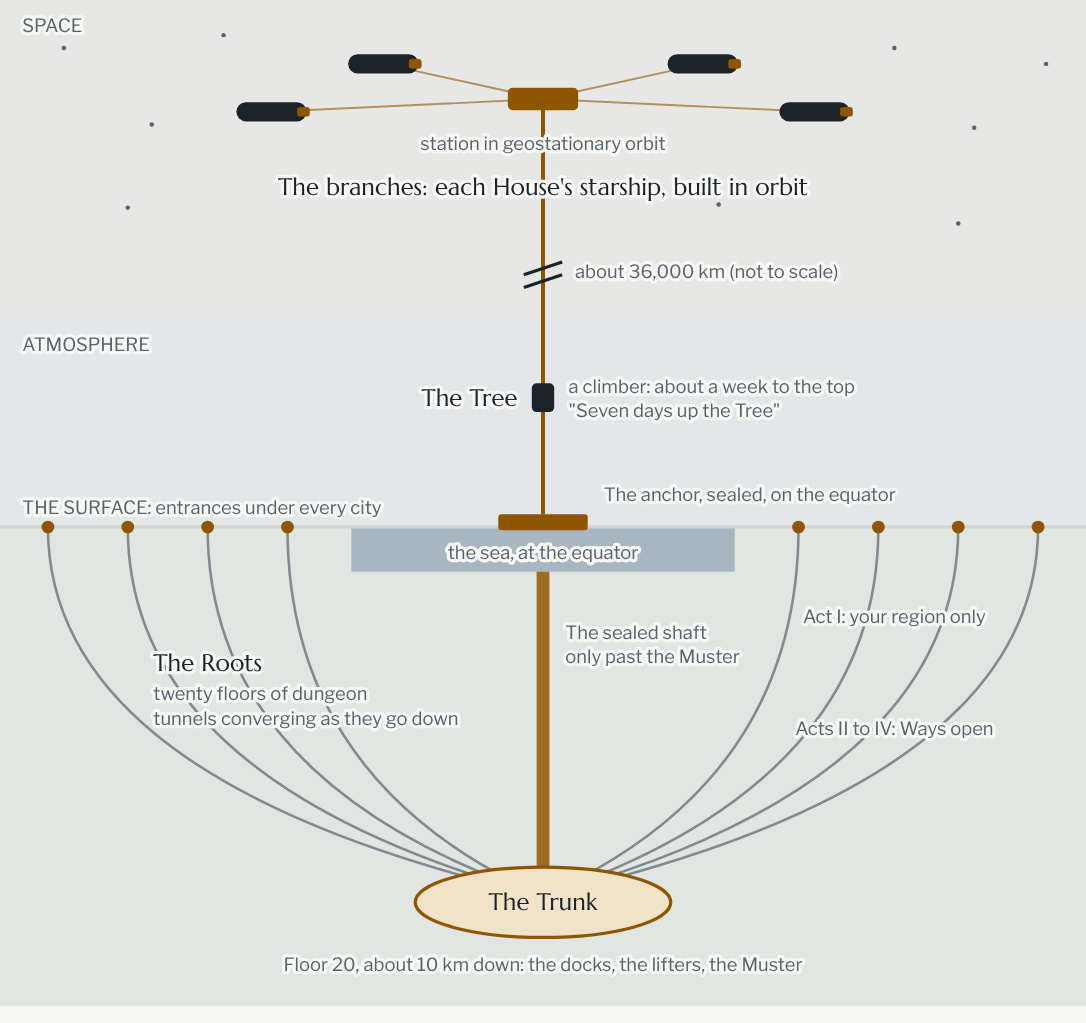
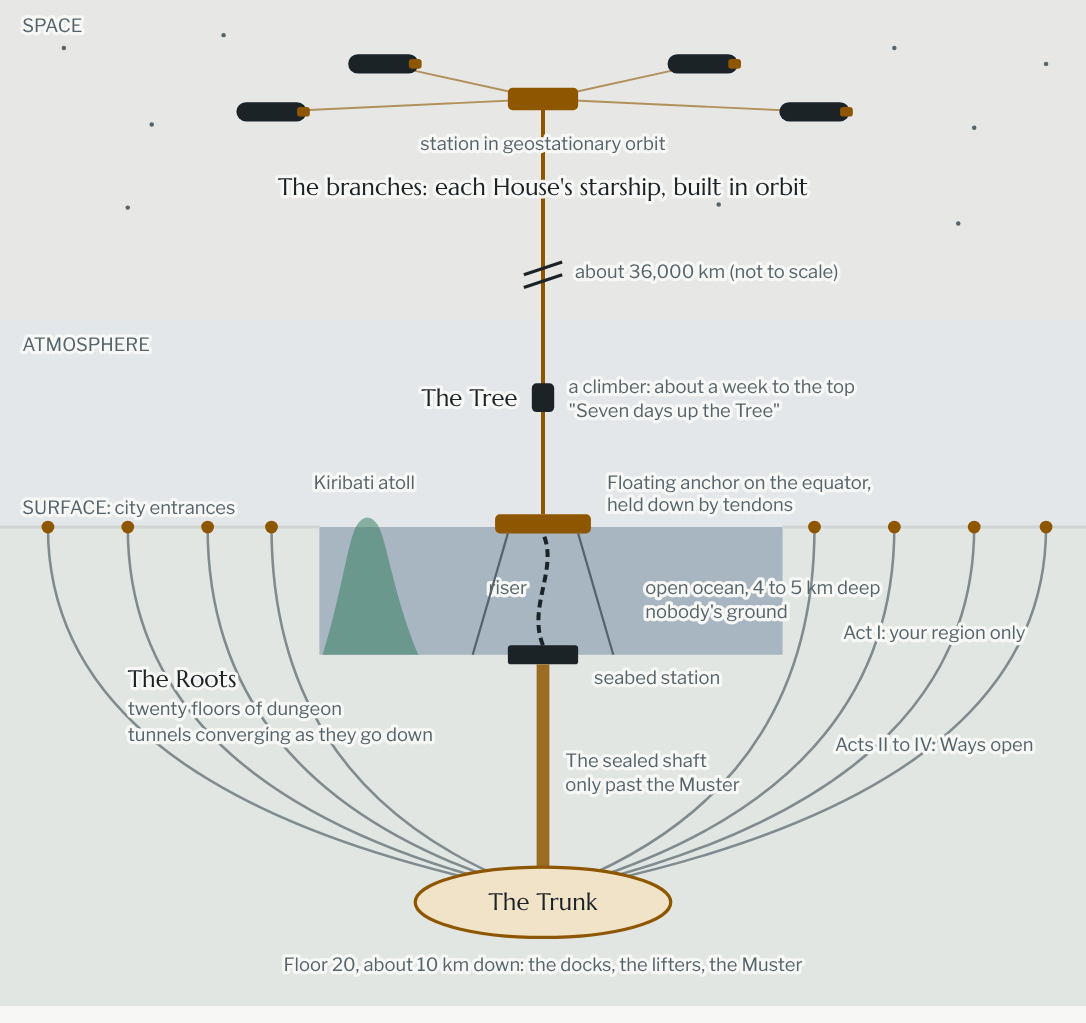
The Tree: a floating anchor beside Kiribati, with seabed station and riser
Records the decision and why it holds up: the standard design in space
elevator studies, Sea Launch's equatorial platform near Kiritimati,
tension-leg moorings and deepwater risers. The sealed shaft now ends at
a seabed station, and the diagram shows the riser, tendons and atoll.

Claude-Session: https://claude.ai/code/session_01KSvaVTYjNDVBFa9dnZuKoY

diff --git a/docs/atlas.html b/docs/atlas.html
@@ -361,35 +361,46 @@ footer { margin-top: 48px; padding-top: 16px; border-top: 1px solid var(--line);
       <div class="section-head">
         <span class="eyebrow">How the ships reach the stars</span>
         <h2>The Trunk and the Tree</h2>
-        <p class="muted">The dungeon is the roots of a world tree, and the rest of the tree is the way up. The craft at the bottom are lifters and boarding halls, not starships. From the Trunk, a sealed shaft rises to an anchor on the equator, and a space elevator (the Tree) climbs from there to orbit, where the starships are built.</p>
+        <p class="muted">The dungeon is the roots of a world tree, and the rest of the tree is the way up. The craft at the bottom are lifters and boarding halls, not starships. From the Trunk, a sealed shaft rises beneath an atoll to a seabed station; a riser climbs to a floating anchor on the equator beside Kiribati; and a space elevator (the Tree) climbs from there to orbit, where the starships are built.</p>
       </div>
       <div class="chart-wrap">
         <div class="chart-scroll">
-          <svg class="roots" viewBox="0 0 680 640" role="img" aria-label="Cross-section, not to scale: tunnels from cities converge underground on the Trunk at floor 20; a sealed shaft rises to an anchor on the equator; a space elevator cable climbs to a station in geostationary orbit where the starships wait">
+          <svg class="roots" viewBox="0 0 680 640" role="img" aria-label="Cross-section, not to scale: tunnels from cities converge underground on the Trunk at floor 20; a sealed shaft rises beneath an atoll to a seabed station; a riser climbs through the open ocean to a floating anchor held down by tendons beside Kiribati; a space elevator cable climbs from the anchor to a station in geostationary orbit where the starships wait">
             <rect x="0" y="0" width="680" height="200" fill="var(--ink)" opacity="0.07"/>
             <rect x="0" y="200" width="680" height="130" fill="var(--corp)" opacity="0.10"/>
             <rect x="0" y="330" width="680" height="300" fill="var(--chip)"/>
-            <rect x="220" y="330" width="240" height="28" fill="var(--corp)" opacity="0.35"/>
-            <line x1="0" y1="330" x2="680" y2="330" stroke="var(--line)" stroke-width="2"/>
+            <rect x="200" y="330" width="290" height="80" fill="var(--corp)" opacity="0.35"/>
+            <line x1="0" y1="330" x2="200" y2="330" stroke="var(--line)" stroke-width="2"/>
+            <line x1="490" y1="330" x2="680" y2="330" stroke="var(--line)" stroke-width="2"/>
+            <path d="M202 410 C 214 372, 218 336, 224 328 Q 230 320 236 328 C 242 336, 246 372, 262 410 Z" fill="var(--comm)" opacity="0.5"/>
             <circle cx="40" cy="30" r="1.4" fill="var(--muted)"/><circle cx="95" cy="78" r="1.4" fill="var(--muted)"/><circle cx="140" cy="22" r="1.4" fill="var(--muted)"/><circle cx="560" cy="30" r="1.4" fill="var(--muted)"/><circle cx="610" cy="80" r="1.4" fill="var(--muted)"/><circle cx="655" cy="40" r="1.4" fill="var(--muted)"/><circle cx="80" cy="130" r="1.4" fill="var(--muted)"/><circle cx="600" cy="140" r="1.4" fill="var(--muted)"/><circle cx="250" cy="120" r="1.4" fill="var(--muted)"/><circle cx="450" cy="128" r="1.4" fill="var(--muted)"/>
             <text class="band-note" x="14" y="20" style="paint-order: stroke; stroke: var(--surface); stroke-width: 4px; stroke-linejoin: round">SPACE</text>
             <text class="band-note" x="14" y="220" style="paint-order: stroke; stroke: var(--surface); stroke-width: 4px; stroke-linejoin: round">ATMOSPHERE</text>
-            <text class="band-note" x="14" y="322" style="paint-order: stroke; stroke: var(--surface); stroke-width: 4px; stroke-linejoin: round">THE SURFACE: entrances under every city</text>
-            <text class="band-note" x="340" y="350" text-anchor="middle" style="paint-order: stroke; stroke: var(--surface); stroke-width: 4px; stroke-linejoin: round">the sea, at the equator</text>
-            <path d="M30 330 Q 30 480 303 552" fill="none" stroke="var(--muted)" stroke-width="1.6" opacity="0.7"/><circle cx="30" cy="330" r="4" fill="var(--accent)"/><path d="M80 330 Q 80 480 309 552" fill="none" stroke="var(--muted)" stroke-width="1.6" opacity="0.7"/><circle cx="80" cy="330" r="4" fill="var(--accent)"/><path d="M130 330 Q 130 480 315 552" fill="none" stroke="var(--muted)" stroke-width="1.6" opacity="0.7"/><circle cx="130" cy="330" r="4" fill="var(--accent)"/><path d="M180 330 Q 180 480 321 552" fill="none" stroke="var(--muted)" stroke-width="1.6" opacity="0.7"/><circle cx="180" cy="330" r="4" fill="var(--accent)"/><path d="M500 330 Q 500 480 359 552" fill="none" stroke="var(--muted)" stroke-width="1.6" opacity="0.7"/><circle cx="500" cy="330" r="4" fill="var(--accent)"/><path d="M550 330 Q 550 480 365 552" fill="none" stroke="var(--muted)" stroke-width="1.6" opacity="0.7"/><circle cx="550" cy="330" r="4" fill="var(--accent)"/><path d="M600 330 Q 600 480 371 552" fill="none" stroke="var(--muted)" stroke-width="1.6" opacity="0.7"/><circle cx="600" cy="330" r="4" fill="var(--accent)"/><path d="M650 330 Q 650 480 377 552" fill="none" stroke="var(--muted)" stroke-width="1.6" opacity="0.7"/><circle cx="650" cy="330" r="4" fill="var(--accent)"/>
-            <text class="band-label" x="96" y="420" style="paint-order: stroke; stroke: var(--surface); stroke-width: 4px; stroke-linejoin: round">The Roots</text>
-            <text class="band-note" x="96" y="438" style="paint-order: stroke; stroke: var(--surface); stroke-width: 4px; stroke-linejoin: round">twenty floors of dungeon</text>
-            <text class="band-note" x="96" y="454" style="paint-order: stroke; stroke: var(--surface); stroke-width: 4px; stroke-linejoin: round">tunnels converging as they go down</text>
-            <text class="band-note" x="560" y="390" text-anchor="middle" style="paint-order: stroke; stroke: var(--surface); stroke-width: 4px; stroke-linejoin: round">Act I: your region only</text>
-            <text class="band-note" x="560" y="460" text-anchor="middle" style="paint-order: stroke; stroke: var(--surface); stroke-width: 4px; stroke-linejoin: round">Acts II to IV: Ways open</text>
-            <rect x="336" y="358" width="8" height="190" fill="var(--accent)" opacity="0.85"/>
-            <text class="band-note" x="354" y="400" style="paint-order: stroke; stroke: var(--surface); stroke-width: 4px; stroke-linejoin: round">The sealed shaft</text>
-            <text class="band-note" x="354" y="415" style="paint-order: stroke; stroke: var(--surface); stroke-width: 4px; stroke-linejoin: round">only past the Muster</text>
+            <text class="band-note" x="14" y="322" style="paint-order: stroke; stroke: var(--surface); stroke-width: 4px; stroke-linejoin: round">SURFACE: city entrances</text>
+            <text class="band-note" x="228" y="306" text-anchor="middle" style="paint-order: stroke; stroke: var(--surface); stroke-width: 4px; stroke-linejoin: round">Kiribati atoll</text>
+            <text class="band-note" x="404" y="372" style="paint-order: stroke; stroke: var(--surface); stroke-width: 4px; stroke-linejoin: round">open ocean, 4 to 5 km deep</text>
+            <text class="band-note" x="404" y="387" style="paint-order: stroke; stroke: var(--surface); stroke-width: 4px; stroke-linejoin: round">nobody's ground</text>
+            <path d="M30 330 Q 30 490 303 552" fill="none" stroke="var(--muted)" stroke-width="1.6" opacity="0.7"/><circle cx="30" cy="330" r="4" fill="var(--accent)"/><path d="M80 330 Q 80 490 309 552" fill="none" stroke="var(--muted)" stroke-width="1.6" opacity="0.7"/><circle cx="80" cy="330" r="4" fill="var(--accent)"/><path d="M130 330 Q 130 490 315 552" fill="none" stroke="var(--muted)" stroke-width="1.6" opacity="0.7"/><circle cx="130" cy="330" r="4" fill="var(--accent)"/><path d="M170 330 Q 170 490 320 552" fill="none" stroke="var(--muted)" stroke-width="1.6" opacity="0.7"/><circle cx="170" cy="330" r="4" fill="var(--accent)"/><path d="M510 330 Q 510 490 360 552" fill="none" stroke="var(--muted)" stroke-width="1.6" opacity="0.7"/><circle cx="510" cy="330" r="4" fill="var(--accent)"/><path d="M560 330 Q 560 490 366 552" fill="none" stroke="var(--muted)" stroke-width="1.6" opacity="0.7"/><circle cx="560" cy="330" r="4" fill="var(--accent)"/><path d="M610 330 Q 610 490 372 552" fill="none" stroke="var(--muted)" stroke-width="1.6" opacity="0.7"/><circle cx="610" cy="330" r="4" fill="var(--accent)"/><path d="M655 330 Q 655 490 378 552" fill="none" stroke="var(--muted)" stroke-width="1.6" opacity="0.7"/><circle cx="655" cy="330" r="4" fill="var(--accent)"/>
+            <text class="band-label" x="80" y="430" style="paint-order: stroke; stroke: var(--surface); stroke-width: 4px; stroke-linejoin: round">The Roots</text>
+            <text class="band-note" x="80" y="448" style="paint-order: stroke; stroke: var(--surface); stroke-width: 4px; stroke-linejoin: round">twenty floors of dungeon</text>
+            <text class="band-note" x="80" y="464" style="paint-order: stroke; stroke: var(--surface); stroke-width: 4px; stroke-linejoin: round">tunnels converging as they go down</text>
+            <text class="band-note" x="585" y="400" text-anchor="middle" style="paint-order: stroke; stroke: var(--surface); stroke-width: 4px; stroke-linejoin: round">Act I: your region only</text>
+            <text class="band-note" x="585" y="470" text-anchor="middle" style="paint-order: stroke; stroke: var(--surface); stroke-width: 4px; stroke-linejoin: round">Acts II to IV: Ways open</text>
+            <path d="M340 404 C 330 380, 350 356, 340 334" fill="none" stroke="var(--ink)" stroke-width="2.5" stroke-dasharray="5 3"/>
+            <text class="band-note" x="330" y="372" text-anchor="end" style="paint-order: stroke; stroke: var(--surface); stroke-width: 4px; stroke-linejoin: round">riser</text>
+            <line x1="318" y1="334" x2="296" y2="410" stroke="var(--muted)" stroke-width="1.4"/>
+            <line x1="362" y1="334" x2="384" y2="410" stroke="var(--muted)" stroke-width="1.4"/>
+            <rect x="318" y="404" width="44" height="12" rx="2" fill="var(--ink)"/>
+            <text class="band-note" x="372" y="428" style="paint-order: stroke; stroke: var(--surface); stroke-width: 4px; stroke-linejoin: round">seabed station</text>
+            <rect x="336" y="416" width="8" height="132" fill="var(--accent)" opacity="0.85"/>
+            <text class="band-note" x="354" y="480" style="paint-order: stroke; stroke: var(--surface); stroke-width: 4px; stroke-linejoin: round">The sealed shaft</text>
+            <text class="band-note" x="354" y="495" style="paint-order: stroke; stroke: var(--surface); stroke-width: 4px; stroke-linejoin: round">only past the Muster</text>
             <ellipse cx="340" cy="565" rx="80" ry="22" fill="var(--accent-soft)" stroke="var(--accent)" stroke-width="2"/>
             <text class="band-label" x="340" y="570" text-anchor="middle">The Trunk</text>
             <text class="band-note" x="340" y="608" text-anchor="middle" style="paint-order: stroke; stroke: var(--surface); stroke-width: 4px; stroke-linejoin: round">Floor 20, about 10 km down: the docks, the lifters, the Muster</text>
-            <rect x="312" y="322" width="56" height="10" rx="2" fill="var(--accent)"/>
-            <text class="band-note" x="378" y="314" style="paint-order: stroke; stroke: var(--surface); stroke-width: 4px; stroke-linejoin: round">The anchor, sealed, on the equator</text>
+            <rect x="310" y="322" width="60" height="12" rx="3" fill="var(--accent)"/>
+            <text class="band-note" x="380" y="306" style="paint-order: stroke; stroke: var(--surface); stroke-width: 4px; stroke-linejoin: round">Floating anchor on the equator,</text>
+            <text class="band-note" x="380" y="320" style="paint-order: stroke; stroke: var(--surface); stroke-width: 4px; stroke-linejoin: round">held down by tendons</text>
             <line x1="340" y1="322" x2="340" y2="62" stroke="var(--accent)" stroke-width="2.5"/>
             <line x1="328" y1="172" x2="352" y2="164" stroke="var(--ink)" stroke-width="2"/>
             <line x1="328" y1="180" x2="352" y2="172" stroke="var(--ink)" stroke-width="2"/>
@@ -422,12 +433,16 @@ footer { margin-top: 48px; padding-top: 16px; border-top: 1px solid var(--line);
       </div>
       <div class="table-wrap">
         <table>
-          <thead><tr><th>Where the anchor could be</th><th>Why</th><th>House</th></tr></thead>
+          <thead><tr><th>The floating anchor</th><th>Why it holds up</th></tr></thead>
           <tbody>
-            <tr><td class="name">Kiribati <span class="tag">draft pick</span></td><td>On the equator, and losing its islands to the rising sea. The way to the stars would begin where the Drowned Coasts hurt most</td><td>The Southern Cross</td></tr>
-            <tr><td class="name">Ecuador</td><td>Its name means "equator"; the Andes give a high, stable base</td><td>The Canopy</td></tr>
-            <tr><td class="name">Kenya</td><td>Equatorial highlands, close to the southern regreening</td><td>The Baobab</td></tr>
-            <tr><td class="name">Indonesia</td><td>The equator crosses Sumatra, Borneo and Sulawesi</td><td>Could settle Southeast Asia's House</td></tr>
+            <tr><td class="name">It's the standard design</td><td>Serious space elevator studies, including NASA-funded work by Bradley Edwards in the early 2000s, put the anchor on a mobile platform in the equatorial Pacific</td></tr>
+            <tr><td class="name">It's nearly been done</td><td>Sea Launch flew rockets from 1999 to 2014 off a converted oil platform on the equator at 154° W, near Kiritimati in Kiribati</td></tr>
+            <tr><td class="name">Held down by tendons</td><td>The cable and the platform's buoyancy both pull upwards. Tension-leg oil platforms are held down by tendons to the seabed in exactly this way</td></tr>
+            <tr><td class="name">The riser</td><td>Deepwater oil fields already use risers in water nearly 3 km deep. Here it's 4 to 5 km: a step beyond, not a leap</td></tr>
+            <tr><td class="name">Calm and movable</td><td>Tropical cyclones almost never form within about 5° of the equator. Moving the platform slowly swings the cable aside to dodge debris</td></tr>
+            <tr><td class="name">Nobody's ground</td><td>Open ocean belongs to no House: the most important place on Earth is neutral, under the Shared Law</td></tr>
+            <tr><td class="name">Why beside Kiribati</td><td>Low atolls the Heat is drowning; the only country in all four hemispheres; the first inhabited place to see each new day. Write it with advice from I-Kiribati people</td></tr>
+            <tr><td class="name">The one real leap</td><td>A cable material many times stronger for its weight than anything made in bulk today. The Houses have it, and guard it</td></tr>
           </tbody>
         </table>
       </div>

diff --git a/docs/world-bible.md b/docs/world-bible.md
@@ -293,7 +293,7 @@ Real underground places also give each House a home in the deep, which can show 
 | Part of the Tree | What it is | In the world |
 |---|---|---|
 | **The Roots** | The dungeon (6.0 to 6.2) | Where people are tested, sorted and changed |
-| **The Trunk** | Floor 20, the docks, and a sealed shaft rising from them to the surface | The departure halls. The craft at the docks are lifters and boarding halls, not starships. Sealed from the dungeon, so nobody climbs it without passing the Muster |
+| **The Trunk** | Floor 20, the docks, and a sealed shaft rising from them to a station on the seabed, with a riser up to the floating anchor (see below) | The departure halls. The craft at the docks are lifters and boarding halls, not starships. Sealed from the dungeon, so nobody climbs it without passing the Muster |
 | **The Tree** | A space elevator: a cable anchored on the equator and running up past geostationary orbit, about 36,000 km above the surface | The road to the sky. Climbers carry people and cargo up the cable |
 | **The branches** | The starships, built in orbit, where there is no gravity or weather to fight | Each House's ship. What waits underground is everything needed to fill them: people, seeds, stories |
 
@@ -301,22 +301,34 @@ Real underground places also give each House a home in the deep, which can show 
 
 - **The myth was already there.** Many peoples imagined a world tree joining the underworld, the earth and the heavens. In Norse myth, Yggdrasil connects the nine worlds. The Maya pictured the world tree as a great ceiba, roots in the underworld, branches in the sky (the Canopy claims the tree as its own). The dungeon has been the roots all along.
 - **It's serious science fiction.** Arthur C. Clarke built *The Fountains of Paradise* (1979) around a space elevator, and in 2012 the Japanese construction firm Obayashi announced a concept for one by 2050 (the Seven are proud of this). The honest gap: no one can yet make a cable strong enough at that length. A world of superintelligences that has solved it is a fair invention, and the cable's material can be one of the Houses' greatest secrets.
-- **It explains why the Roots converge.** An elevator's anchor has to sit on the equator, so every House's tunnels run towards one place.
+- **It explains why the Roots converge.** An elevator's anchor has to sit on the equator, so every House's tunnels run towards one place: the floating anchor beside Kiribati.
 - **It explains why the ships wait underground.** The surface is dying, the weather is violent and the Holdouts sabotage things; the deep is cool, shielded and powered by the Tap (8.4). Only the anchor itself stands on the surface, sealed.
 - **It keeps the theme.** Even the nearest star, Proxima Centauri, is 4.24 light years away: decades at a tenth of light speed, centuries more realistically. Nobody who leaves arrives.
 
 **The climb.** [Proposed] Concept designs for space elevators estimate about a week to climb to geostationary orbit. **Seven days up the Tree** can be the game's epilogue after the Muster: the Earth falling away, your Calling settling on you, the starship growing larger above. A quiet ending, after twenty floors of noise.
 
-**Where is the anchor?** [Open] It has to be on the equator, and the equator runs through the lore:
+**Why the equator.** Only a satellite directly above the equator can stay over the same spot on the ground (geostationary orbit), so the cable has to hang from a point on the equator. An anchor anywhere else would be dragged towards it.
 
-| Candidate | Why | House |
-|---|---|---|
-| **Kiribati**, in the Pacific | On the equator, and losing its islands to the rising sea. Humanity's way to the stars would begin where the Drowned Coasts (8.4) hurt most | The Southern Cross, which gets its heart |
-| **Ecuador** | Its name means "equator"; the Andes give a high, stable base | The Canopy |
-| **Kenya** | Equatorial highlands, close to the southern regreening | The Baobab |
-| **Indonesia** | The equator crosses Sumatra, Borneo and Sulawesi | Could finally settle Southeast Asia's House |
+**Where: a floating anchor beside Kiribati.** [Decided] The anchor is a floating platform on the open ocean near Kiribati, in the equatorial Pacific. Not on Kiribati's islands: beside them.
 
-Draft recommendation: **Kiribati**, for what it means. The tunnels would run under the ocean floor to reach it, which is the agents' work at its most impossible, and that suits the deepest act.
+- **It's the standard design.** Serious space elevator studies, including NASA-funded work by the physicist Bradley Edwards in the early 2000s, put the anchor on a mobile platform in the equatorial Pacific.
+- **It's been done, nearly.** From 1999 to 2014, Sea Launch flew rockets off the *Odyssey*, a converted oil-drilling platform, from a site on the equator at 154° W, near Kiritimati in Kiribati. People have already gone to space from this patch of ocean.
+- **The weather is calm.** Tropical cyclones almost never form within about 5° of the equator.
+- **It can move.** Shifting the platform slowly swings the lower cable aside, so it can dodge tracked debris.
+- **It's nobody's ground.** Open ocean belongs to no House, so the most important place on Earth is neutral, like the sanctuaries, under the Shared Law and the Herald's care.
+- **It means something.** Kiribati is mostly low coral atolls a few metres above the sea; in 2014 its government bought about 20 km² of land in Fiji, partly as insurance against rising water. It's the only country in all four hemispheres, and its Line Islands are the first inhabited place to see each new day. The place that sees every new day first is where people leave for a new world, and it's a place the Heat is drowning (the Drowned Coasts, 8.4). It gives the Southern Cross its heart.
+
+**How the dungeon reaches it.** [Proposed] The ocean there is roughly 4 to 5 km deep, so the shaft can't come straight up into the platform:
+
+1. **The sealed shaft** rises from the Trunk through the rock beneath an atoll to a **seabed station**.
+2. **A riser** (a pipe from seabed to surface, as deepwater oil fields use in water nearly 3 km deep) carries people and cargo up to the platform. At 4 to 5 km it's deeper than any built today, a step beyond, not a leap.
+3. **The platform is held down by tendons** fixed to the seabed. The cable pulls it up and its own buoyancy pushes it up, so it must be held down, which is exactly how tension-leg oil platforms already work. The tendons let it shift slowly; the riser bends with it.
+
+**The real risks**, and good story material: lightning on the cable in the atmosphere (part of why the eastern Pacific, where lightning is rare, is favoured); debris and micrometeorites higher up; the cable swaying, which needs damping. And the one real leap: a cable material many times stronger for its weight than anything made in bulk today. Carbon nanotubes and graphene manage it in tiny samples only. The Houses have solved it, and the material is their most closely guarded secret.
+
+**Care.** Kiribati is a living Pacific culture (tier 4, `docs/houses.md` section 4). Before writing its people or places in detail, take advice from I-Kiribati people.
+
+**Considered and not chosen:** Ecuador (its name means "equator"; Cayambe is the highest point on it; but earthquakes, and a land anchor can't move), Kenya (Italy's San Marco launch platform once operated off its coast; a land anchor nearer old conflicts), Indonesia (would settle Southeast Asia's House; earthquakes and volcanoes), Brazil (its Alcântara launch site is about 2° south, so a launch site, not an anchor site).
 
 ### 6.4 Recurring places
 
@@ -471,7 +483,7 @@ Draft recommendation: start with **the Launch Window** (it gives the game a larg
 
 Decided so far: entry is a choice, but the surface is dying, so most go; refusing the final Calling means being left behind; the surface threat creeping down is the floor timer.
 
-Also decided: the ships reach the stars by the Tree, a space elevator rising from the Trunk (6.3); the Heat is what's killing the surface, with the regreening, the sabotage and the divide as its history; the blame is shared (the first law, fire is never unlit); the agents' checks on each other are a fragile balance; the Bloom is a subplot; the House roster's origins and sizes.
+Also decided: the ships reach the stars by the Tree, a space elevator rising from the Trunk, anchored on a floating platform beside Kiribati (6.3); the Heat is what's killing the surface, with the regreening, the sabotage and the divide as its history; the blame is shared (the first law, fire is never unlit); the agents' checks on each other are a fragile balance; the Bloom is a subplot; the House roster's origins and sizes.
 
 1. House names: see `docs/houses.md`.
 2. Houses for India, Latin America, the Middle East and others, or fold them into larger ones?
@@ -577,7 +589,12 @@ Every myth, folk tale, historical fact and outside work this lore leans on, in o
 | Geostationary orbit is about 36,000 km up; elevator anchors must be on the equator | The Tree | 6.3 |
 | Arthur C. Clarke's *The Fountains of Paradise* (1979); Obayashi's 2012 space elevator concept for 2050; about a week to climb | The Tree; the Seven's pride; the epilogue | 6.3 |
 | Proxima Centauri, the nearest star, 4.24 light years away | Nobody who leaves arrives | 6.3 |
-| Kiribati sits on the equator and is threatened by rising seas; Ecuador's name means "equator" | Anchor candidates | 6.3 |
+| Kiribati: low atolls threatened by rising seas; bought land in Fiji (2014); the only country in all four hemispheres; its Line Islands see each new day first | The anchor beside Kiribati | 6.3 |
+| Bradley Edwards' NASA-funded studies (early 2000s): an anchor platform in the equatorial Pacific | The floating anchor | 6.3 |
+| Sea Launch (1999 to 2014): rockets from a converted oil platform on the equator at 154° W, near Kiritimati | The floating anchor | 6.3 |
+| Tension-leg platforms: oil rigs held down by tendons to the seabed; deepwater risers in water nearly 3 km deep | Holding the anchor; the riser | 6.3 |
+| Tropical cyclones almost never form within about 5° of the equator | Why the equatorial ocean | 6.3 |
+| Ecuador's name means "equator"; Cayambe, the highest point on it; Italy's San Marco platform off Kenya; Brazil's Alcântara launch site | Anchor sites considered | 6.3 |
 | Australia and Tuvalu's Falepili Union treaty (2023) | The Drowned Coasts | 8.4 |
 | Svalbard Global Seed Vault (Norway, 2008) | The Ark | 8.4 |
 | Japan's care robots for an ageing society; Korea's semiconductor industry | The Seven; the Foundry | `docs/houses.md` |
@@ -609,7 +626,7 @@ Every myth, folk tale, historical fact and outside work this lore leans on, in o
 | **Races** | Human's stats under the "no benefits, no costs" rule; whether every race fits the Reshaping story; names | `docs/creatures.md` section 2 |
 | **Subplots** | Pick which of 8.4 to use | 8.4 |
 | **The Roots** | Twenty floors decided. Next: floor themes per act, and whether a run is a full descent or an act at a time | 6.0 to 6.2 |
-| **The Tree's anchor** | Kiribati, Ecuador, Kenya or Indonesia | 6.3 |
+| **Kiribati** | Anchor decided (a floating platform beside it). Take I-Kiribati advice before writing it in detail | 6.3 |
 | **Floor themes** | Twenty floors across four acts; choose the overgrowth's floor | 6.2 |
 | **Names** | Houses' formal and street names; the Known; the word for the player; the arrangement between agents and humanity | 13 |
 | **The Herald's voice** | Lines for each event, written to the pillars | 7 |
